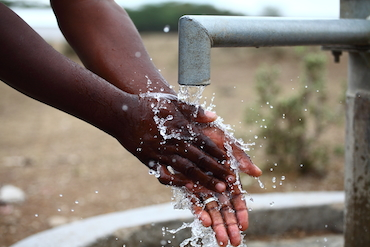
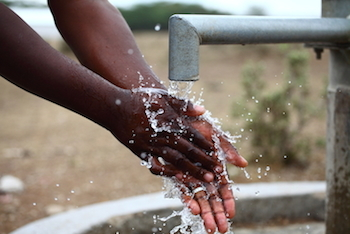
350px

diff --git a/index.html b/index.html
@@ -183,7 +183,7 @@
           <div class="row">
             <div class="4u">
               <section class="highlight highlight-one">
-                <img src="/images/water01.jpg" width="370" height="247" alt="Washing hands in clean water.">
+                <img src="/images/water01.jpg" width="350" height="234" alt="Washing hands in clean water.">
                 <h3><a>Water is more than H<sub>2</sub>O</a></h3>
                 <p>Water, sanitation, and hygiene (WASH) solutions help close the cycle of disease in a community. Inability to access clean water makes even the simple act of washing your hands an impossible task. Nearly 90% of all diseases are caused by poor hygiene, inadequate sanitation, and unsafe drinking water.
                 <br><em class="small">Living Water International</em></p>
@@ -191,7 +191,7 @@
             </div>
             <div class="4u">
               <section class="highlight highlight-two">
-                <img src="/images/water02.jpg" width="370" height="247" alt="Kenyan children collecting water from a traditional source." />
+                <img src="/images/water02.jpg" width="350" height="234" alt="Kenyan children collecting water from a traditional source." />
                 <h3>Water is Life</h3>
                 <p>The United Nations Development Program says clean water is among the most powerful preventive ways to reduce child mortality. The availability of clean water in a rural village reduces infant mortality by 35 to 50 percent, at a cost of roughly $10 per person per year.
                 <br><em class="small">World Health Organization</em></p>
@@ -199,7 +199,7 @@
             </div>
             <div class="4u">
               <section class="highlight highlight-three">
-                <img src="/images/water03.jpg" width="370" height="247" alt="Women filling water containers from a well." />
+                <img src="/images/water03.jpg" width="350" height="234" alt="Women filling water containers from a well." />
                 <h3>Access is Everything</h3>
                 <p>Research in Uganda found households spending on average 660 hours a year collecting water. This represents two full months of labor, with attendant opportunity costs for education, income generation, and female leisure time.
                       <br><em class="small">United Nations Development Program, 2006</em></p>
